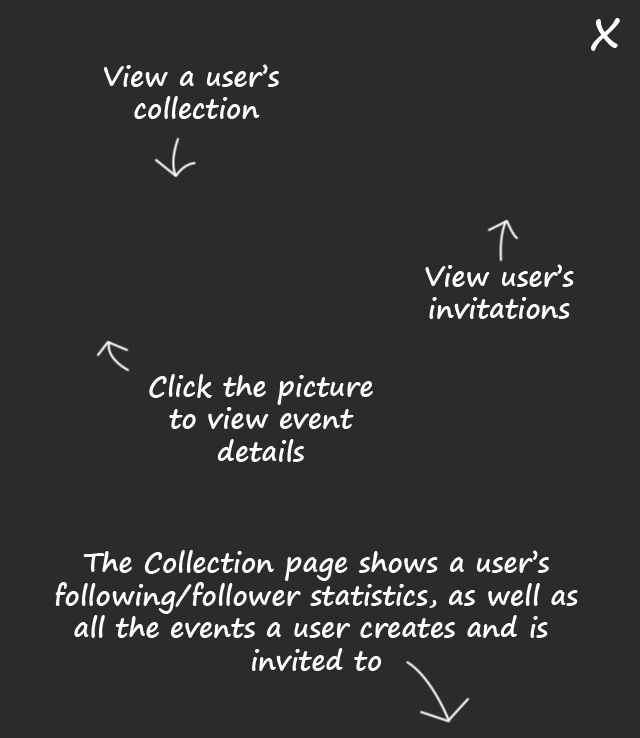
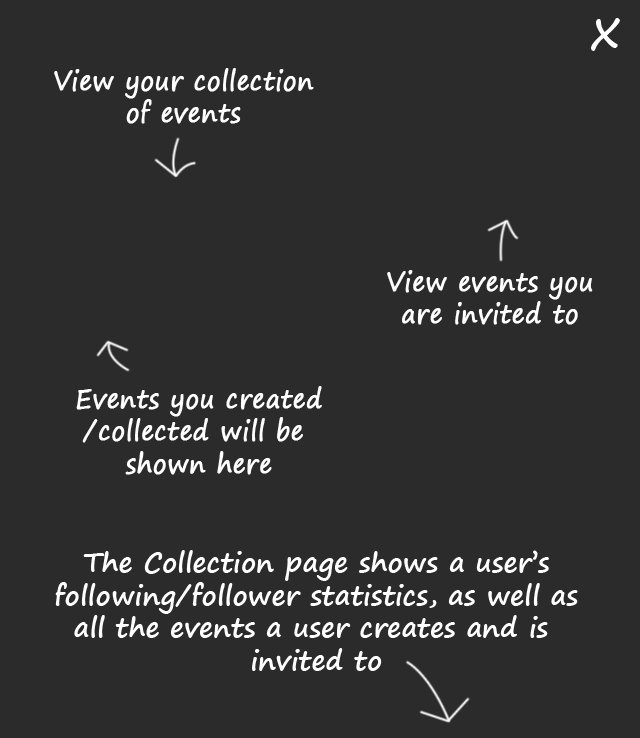
added the detail and profilr page tutorial

Changed region(s): [[0.0938, 0.4986, 0.5938, 0.6545], [0.0625, 0.0935, 0.5, 0.187], [0.5938, 0.3428, 0.9375, 0.4363]]

diff --git a/Fun/ProfilePageViewController.m b/Fun/ProfilePageViewController.m
@@ -51,6 +51,10 @@
 @property(nonatomic,strong)NSArray* lastReceivedJson_bookmark_joined; //used to limite the refresh frequecy
 
 
+//for the tutorial page
+@property (nonatomic,strong) UIImageView* tutorial;
+@property (nonatomic,strong) UIButton* cancelTutorailButton;
+
 -(void)refreshAllTheMainScrollViewSUbviews;
 -(void)addMoreDataToTheMainScrollViewSUbviews;
 -(void)joined_refreshAllTheMainScrollViewSUbviews;
@@ -93,6 +97,10 @@
 @synthesize lastReceivedJson_bookmark=_lastReceivedJson_bookmark;
 @synthesize lastReceivedJson_profile=_lastReceivedJson_profile;
 @synthesize lastReceivedJson_bookmark_joined=_lastReceivedJson_bookmark_joined;
+
+//for the tutorial page
+@synthesize tutorial=_tutorial;
+@synthesize cancelTutorailButton=_cancelTutorailButton;
 
 //used to keep server log
 @synthesize via=_via;
@@ -202,6 +210,9 @@
         [self presentViewController:loginVC animated:YES completion:^{}];
     }
     else{
+        
+        
+        
     
     //query the user profile information
     //add login auth_token
@@ -584,16 +595,13 @@
     }
 }
 
+
+
+
 -(void)viewDidAppear:(BOOL)animated{
     [super viewDidAppear:animated];
     
-//---------------------------------------------->
-//    UIImageView *tutorial=[UIImageView new];
-//    [tutorial setFrame:CGRectMake(0, 0, 320, 375)];
-//    [tutorial setImage:[UIImage imageNamed:@"tut-collection.png"]];
-//    [tutorial setUserInteractionEnabled:YES];
-//    [self.view addSubview:tutorial];
-//----------------------------------------------->
+    [self startTheTutorialPage];
 }
 
 -(void)viewWillDisappear:(BOOL)animated{
@@ -2037,6 +2045,34 @@
         [self.refreshViewdown removeFromSuperview];
     }
     
+}
+
+#pragma mark - Tutorial Page related
+-(void)cancelTheTutorailPage{
+    [self.cancelTutorailButton removeFromSuperview];
+    [self.tutorial removeFromSuperview];
+}
+
+-(void)startTheTutorialPage{
+    //adding the tutorial cover page
+    NSUserDefaults *defaults = [NSUserDefaults standardUserDefaults];
+    if (![defaults objectForKey:@"ProfilePageTutorial"]) {
+        
+        UIImageView *tutorial=[UIImageView new];
+        self.tutorial=tutorial;
+        [tutorial setFrame:CGRectMake(0, 0, 320, 375)];
+        [tutorial setImage:[UIImage imageNamed:@"tut-collection.png"]];
+        [tutorial setUserInteractionEnabled:YES];
+        [self.view addSubview:tutorial];
+        UIButton* cancelTutorialButton=[[UIButton alloc] initWithFrame:CGRectMake(280, 0, 40, 40)];
+        self.cancelTutorailButton=cancelTutorialButton;
+        [cancelTutorialButton addTarget:self action:@selector(cancelTheTutorailPage) forControlEvents:UIControlEventTouchUpInside];
+        [self.view addSubview:cancelTutorialButton];
+        
+        //changed the default state
+        [defaults setObject:@"setted" forKey:@"ProfilePageTutorial"];
+        [defaults synchronize];
+    }
 }
 
 #pragma mark - Gesture handler

diff --git a/Fun/DetailViewController.m b/Fun/DetailViewController.m
@@ -92,6 +92,10 @@
 @property (nonatomic) BOOL isEnteredDiscussion;
 //@property (nonatomic)BOOL shouldGoBack; //if the event not exist, go back to the former page
 
+//for the tutorial page
+@property (nonatomic,strong) UIImageView* tutorial;
+@property (nonatomic,strong) UIButton* cancelTutorailButton;
+
 
 - (void)startPrivateConversationButtonClicked;
 @end
@@ -173,6 +177,11 @@
 @synthesize alreadyInvitedFriend=_alreadyInvitedFriend;
 //@synthesize shouldGoBack=_shouldGoBack;
 @synthesize isEnteredDiscussion=_isEnteredDiscussion;
+
+//for the tutorial page
+@synthesize tutorial=_tutorial;
+@synthesize cancelTutorailButton=_cancelTutorailButton;
+
 #pragma mark - self defined getter and setter
 -(UIButton *)privateMessageButton{
     if (!_privateMessageButton) {
@@ -344,6 +353,10 @@
 
 -(void)viewDidAppear:(BOOL)animated{
     [super viewDidAppear:animated];
+    
+    //start the tutorial
+    [self startTheTutorialPage];
+    
     NSUserDefaults *defaults = [NSUserDefaults standardUserDefaults];
     if (![defaults objectForKey:@"login_auth_token"]) {
         //if not login, do it
@@ -2019,6 +2032,34 @@
 
 -(void)tapLink:(UITapGestureRecognizer *)tapGR {
     [self performSegueWithIdentifier:@"webView" sender:self];
+}
+
+#pragma mark - Tutorial Page related
+-(void)cancelTheTutorailPage{
+    [self.cancelTutorailButton removeFromSuperview];
+    [self.tutorial removeFromSuperview];
+}
+
+-(void)startTheTutorialPage{
+    //adding the tutorial cover page
+    NSUserDefaults *defaults = [NSUserDefaults standardUserDefaults];
+    if (![defaults objectForKey:@"DetailPageTutorial"]) {
+        
+        UIImageView *tutorial=[UIImageView new];
+        self.tutorial=tutorial;
+        [tutorial setFrame:CGRectMake(0, 0, 320, 375)];
+        [tutorial setImage:[UIImage imageNamed:@"tut-detail.png"]];
+        [tutorial setUserInteractionEnabled:YES];
+        [self.view addSubview:tutorial];
+        UIButton* cancelTutorialButton=[[UIButton alloc] initWithFrame:CGRectMake(280, 0, 40, 40)];
+        self.cancelTutorailButton=cancelTutorialButton;
+        [cancelTutorialButton addTarget:self action:@selector(cancelTheTutorailPage) forControlEvents:UIControlEventTouchUpInside];
+        [self.view addSubview:cancelTutorialButton];
+        
+        //changed the default state
+        [defaults setObject:@"setted" forKey:@"DetailPageTutorial"];
+        [defaults synchronize];
+    }
 }
 
 #pragma mark - aler view delegate method implementation

diff --git a/Fun/ExploreViewController.m b/Fun/ExploreViewController.m
@@ -156,20 +156,7 @@
     }
     
     
-//    NSUserDefaults *defaults = [NSUserDefaults standardUserDefaults];
-//    //---------------------------------------->>>>>>>>>>>>>>>for test only<<<<<<<<<<<<<<<
-//    [defaults setValue:nil forKey:@"notTheFirstTime"];
-//    [defaults synchronize];
-//    //---------------------------------------->>>>>>>>>>>>>>>for test only<<<<<<<<<<<<<<<
-//    
-//    if ([defaults objectForKey:@"login_auth_token"]&&![defaults objectForKey:@"notTheFirstTime"]) {
-//        //if not login, do it
-//        NSLog(@"start introducing");
-//        NSUserDefaults *defaults = [NSUserDefaults standardUserDefaults];
-//        [defaults setValue:@"yes" forKey:@"notTheFirstTime"];
-//        [defaults synchronize];
-//        [self performSegueWithIdentifier:@"StartIntroduceToTheApp" sender:self];
-//    }
+
 }
 
 - (void)viewDidLoad {
